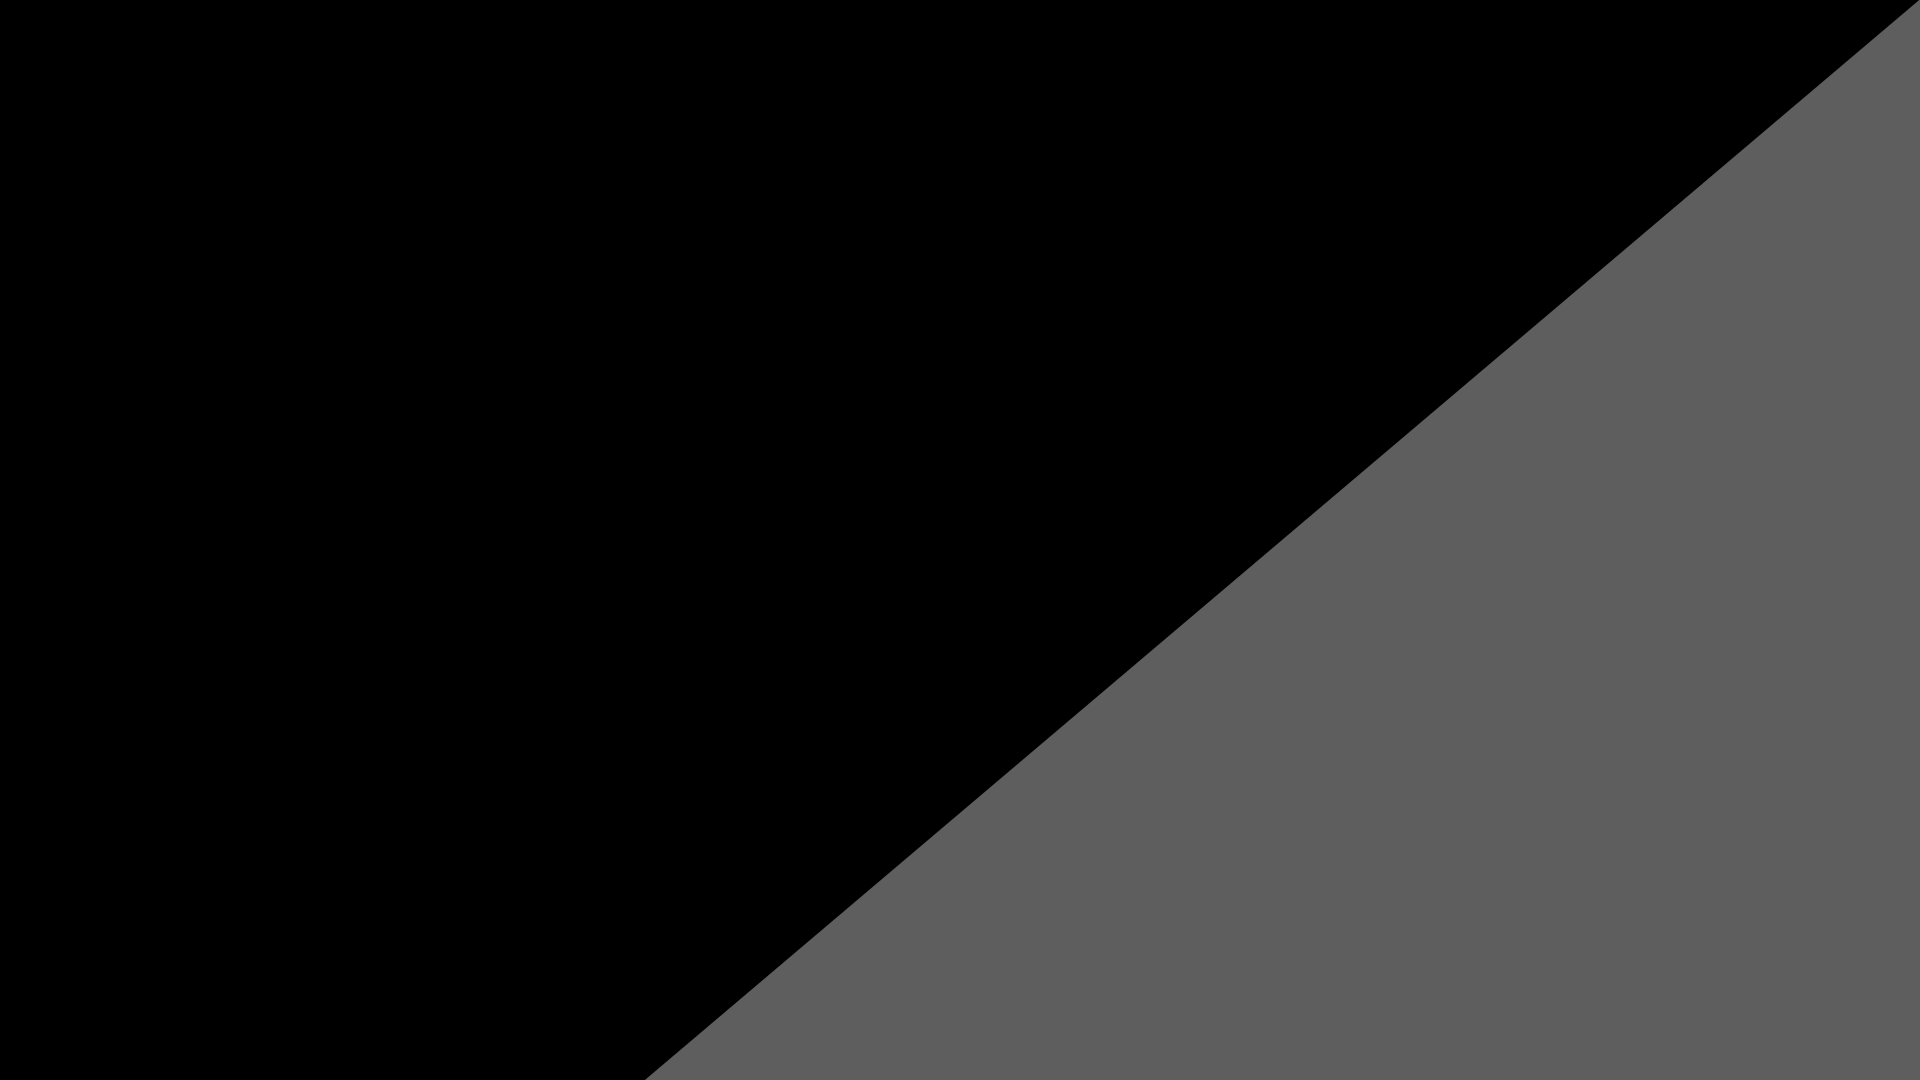
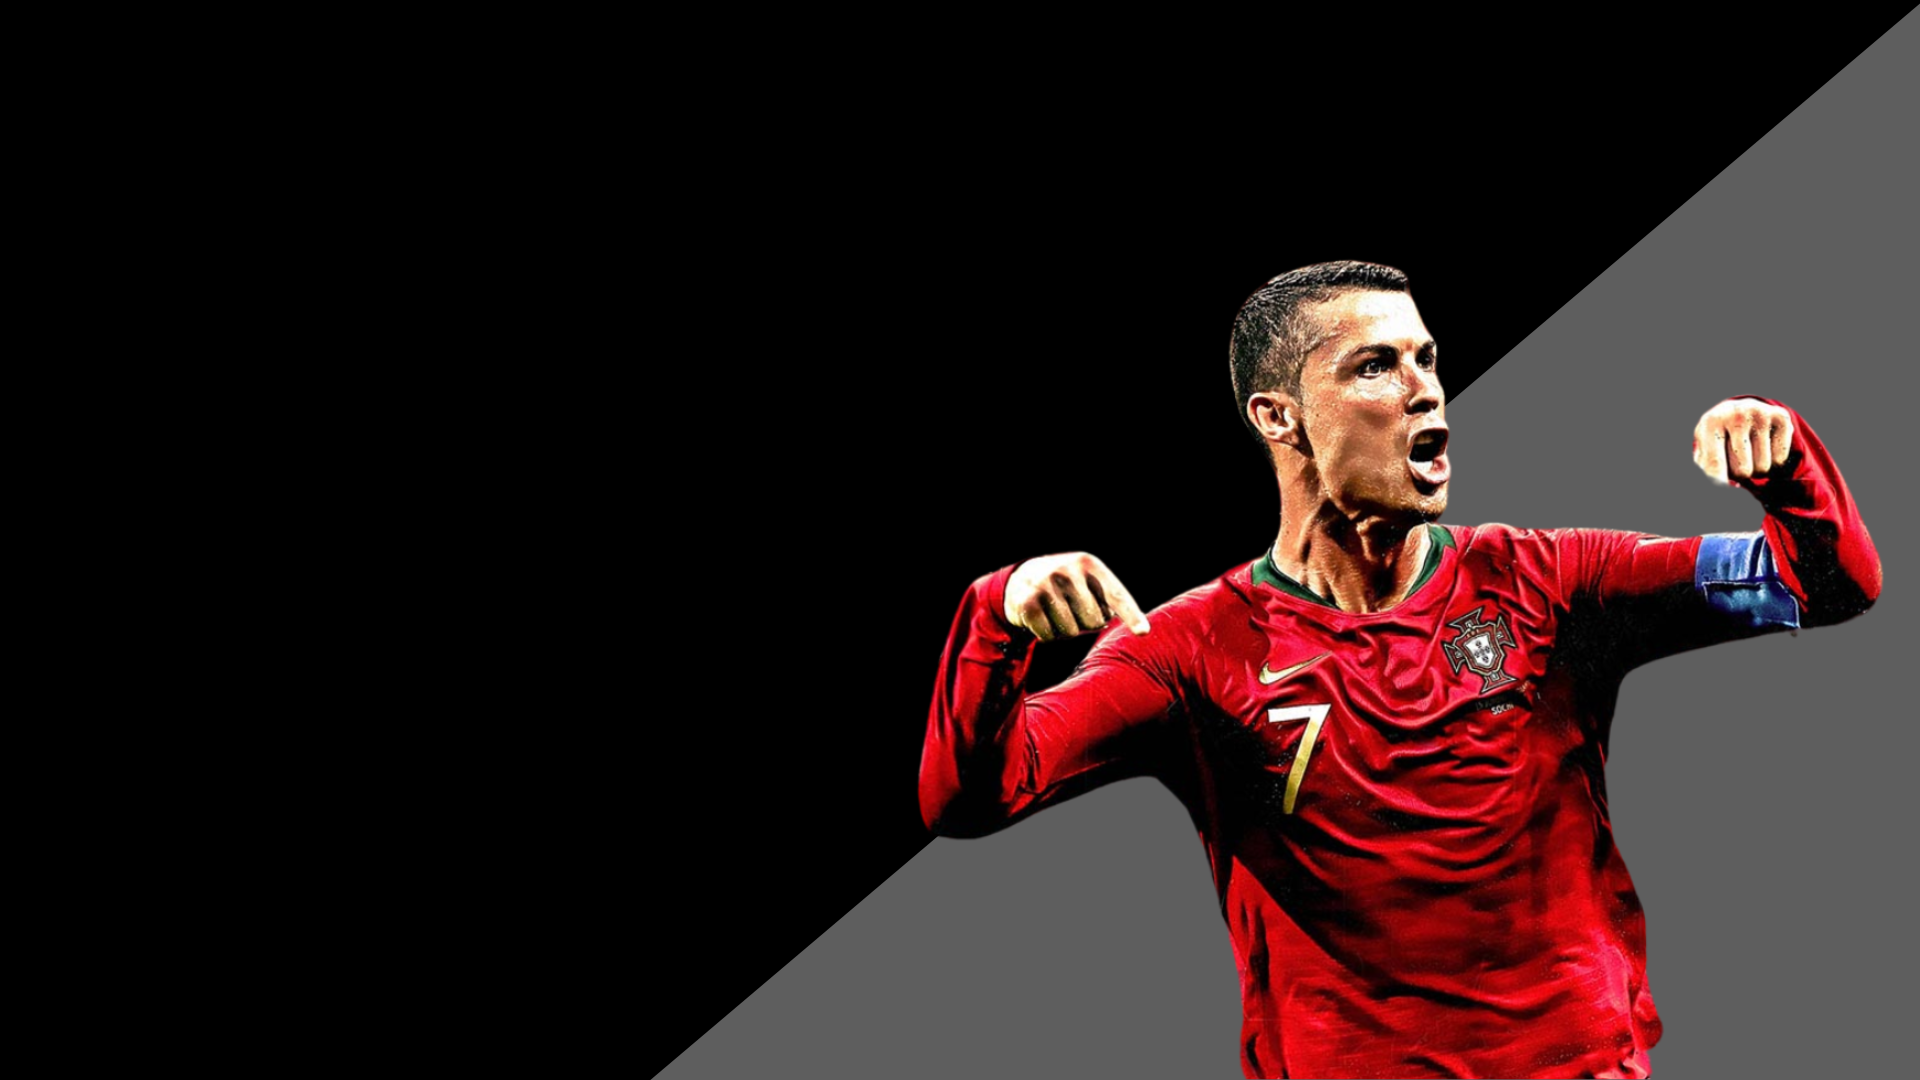
x

Changed region(s): [[0.4688, 0.2444, 1.0, 1.0], [0.4062, 0.8556, 0.4375, 0.8861], [0.3438, 0.9472, 0.375, 0.9778]]

diff --git a/fe/src/pages/user/registerPage/index.js b/fe/src/pages/user/registerPage/index.js
@@ -6,6 +6,15 @@ import { FcGoogle } from "react-icons/fc";
 import { FaCircleUser } from "react-icons/fa6";
 import { FaLock } from "react-icons/fa";
 import axios from "axios";
+// Import Appwrite dependencies
+import { Client, Account } from 'appwrite';
+
+// Initialize Appwrite client
+const client = new Client()
+    .setEndpoint('https://cloud.appwrite.io/v1') // Update this with your Appwrite endpoint
+    .setProject('67e41482001ce25b7a7f'); // Update with your project ID
+
+const account = new Account(client);
 
 const RegisterPage = () => {
     const navigate = useNavigate();
@@ -21,6 +30,19 @@ const RegisterPage = () => {
 
     const handleChange = (e) => {
         setFormData({ ...formData, [e.target.name]: e.target.value });
+    };
+
+    const handleGoogleSignUp = async () => {
+        try {
+            // Redirect to Google OAuth login
+            await account.createOAuth2Session(
+                'google', 
+                'http://localhost:3000/', // Success URL - adjust as needed
+                'http://localhost:3000/fail' // Failure URL - adjust as needed
+            );
+        } catch (err) {
+            setError(err.message || "Google authentication failed");
+        }
     };
 
     const handleSubmit = async (e) => {
@@ -53,7 +75,7 @@ const RegisterPage = () => {
                     <h1>Đăng ký tài khoản</h1>
                 </div>
                 
-                {/* Error message display, styled the same as in LoginPage */}
+                {/* Error message display */}
                 {error && <p className="error-message">{error}</p>}
                 
                 <div className="input-group">
@@ -75,7 +97,7 @@ const RegisterPage = () => {
                 <div className="signup">
                     <div className="otherSignUp">
                         <FaFacebook className="icon" />
-                        <FcGoogle className="icon-gg" />
+                        <FcGoogle className="icon-gg" onClick={handleGoogleSignUp} style={{cursor: 'pointer'}} />
                     </div>
                     <div className="sig-btn">
                         <button type="submit">Đăng ký</button>

diff --git a/fe/src/pages/user/homePage/index.js b/fe/src/pages/user/homePage/index.js
@@ -1,6 +1,5 @@
 import { memo } from "react";
 import "./style.scss";
-import cr7 from '../../../assets/images/cr7.png';
 import adobe from '../../../assets/images/adobe.png';
 import logofc from '../../../assets/images/logofc.png';
 import League_of_Legends_2019_vector from '../../../assets/images/League_of_Legends_2019_vector.png';
@@ -40,7 +39,6 @@ const Homepage = () => {
                             <div className="quality-item"><h2 className="quality-count">30,000+</h2><p className="quality-text">Happy Customers</p></div>
                         </div>
                     </div>
-                    <img src={cr7} alt="" className="cr7" />
                 </div>
             </div>
 

diff --git a/fe/src/pages/user/homePage/style.scss b/fe/src/pages/user/homePage/style.scss
@@ -3,7 +3,7 @@ html {
 }
 
 .banner {
-        background: url("../../../assets/images/main.png") no-repeat center center/cover;
+        background: url("../../../assets/images/mainbg.png") no-repeat center center/cover;
         height: 87vh;
         max-width: 100%;
         position: relative;
